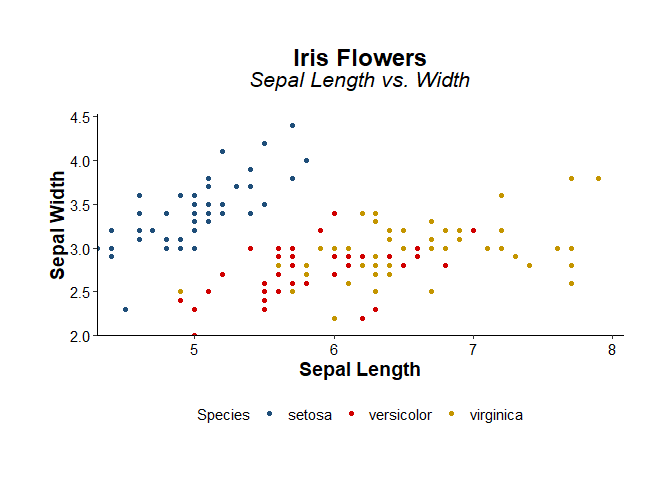
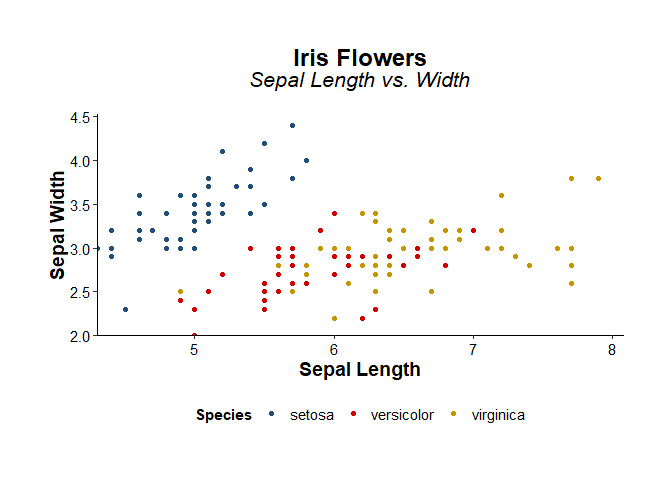
rd

diff --git a/README.md b/README.md
@@ -51,7 +51,7 @@ plot + theme_clean()
 plot + 
   labs(caption=notes_format(c("Sepal measurements in cm.",
                               "Anderson, 1936; Fisher, 1936."))) + 
-  theme_clean()
+  theme_clean(legend_title_size = 11)
 ```
 
 <img src="man/figures/README-example-3.png" width="100%" />
